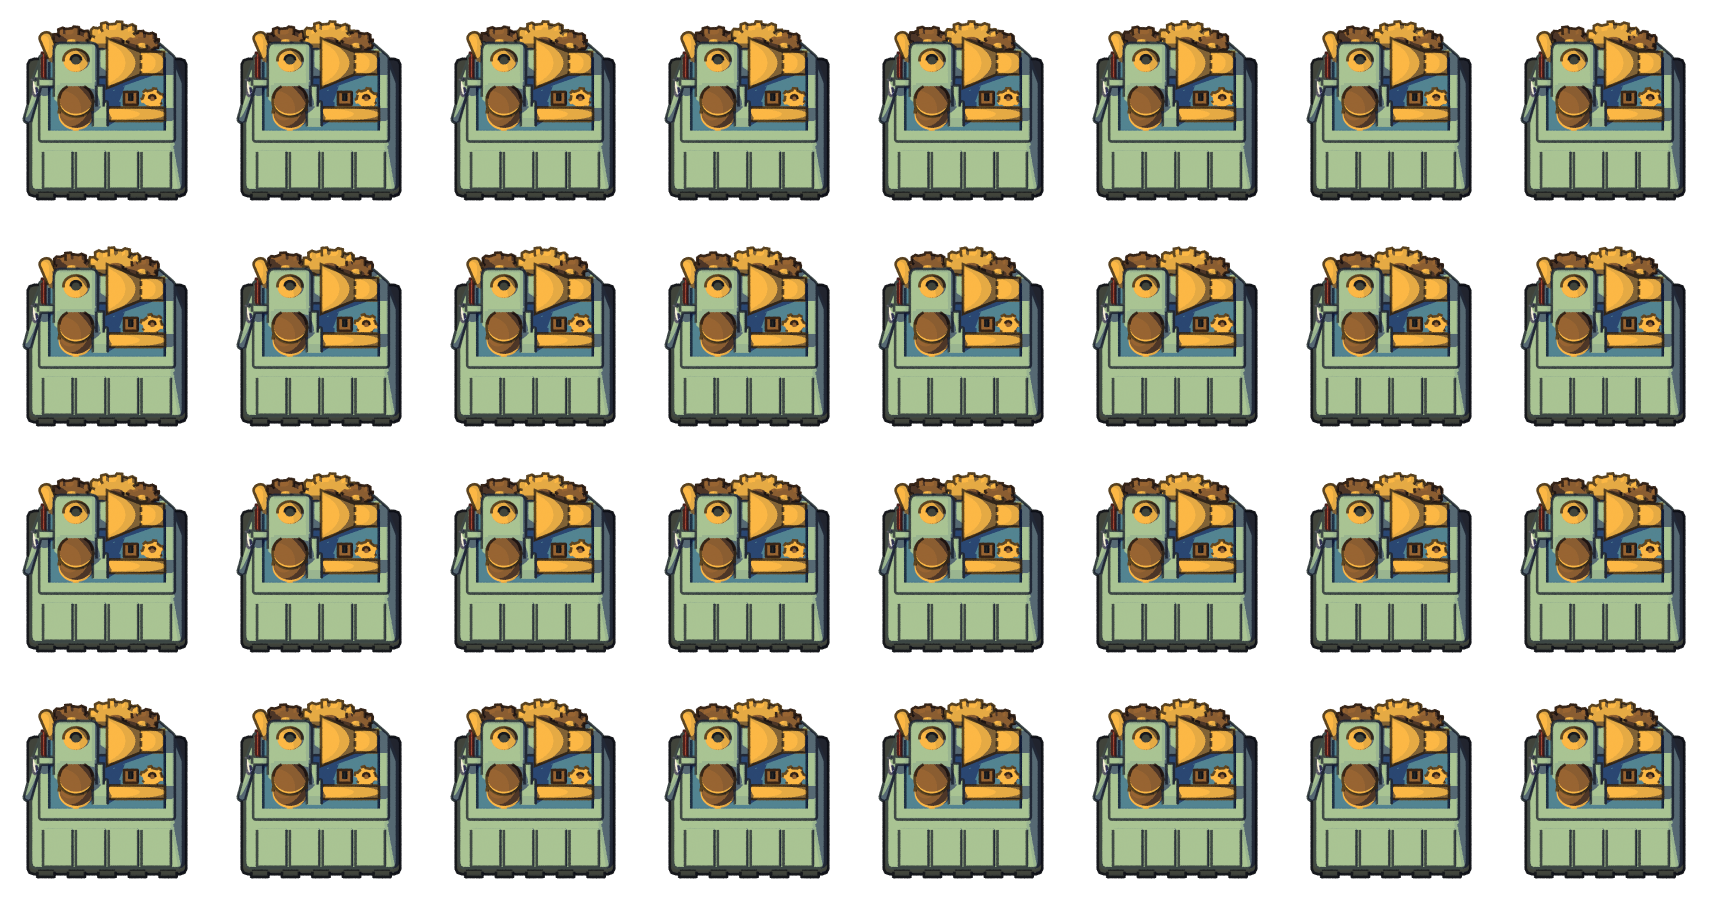
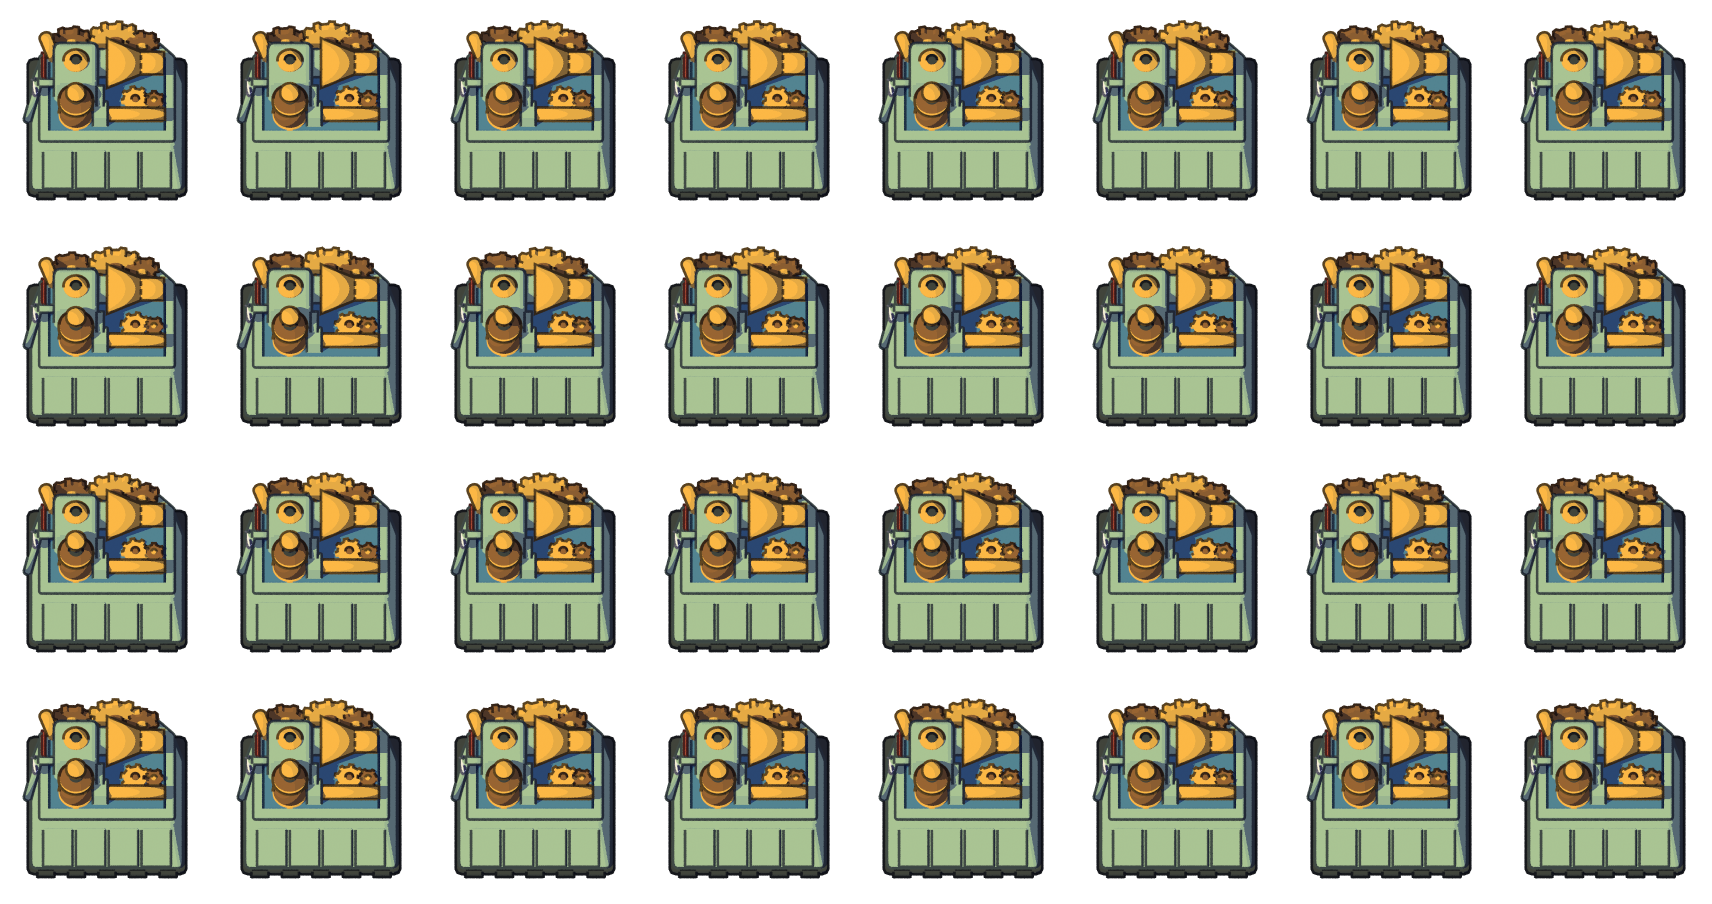
Cel-shading : assembleur 1 plus animé (piston du tambour, paire d'engrenages couchés)
Piston qui sort du tambour (une course par boucle), deux engrenages couchés à la place du petit engrenage et de la
plaque à fente, engrenages arrière un peu plus rapides. Peu de pièces mobiles ajoutées : les assembleurs 2 et 3
devront en avoir davantage pour se distinguer.

diff --git a/celshading/blender/assembler.py b/celshading/blender/assembler.py
@@ -27,6 +27,7 @@ SHADOW_CELL, SHADOW_OFFSET = (190, 165), (17, 6)   # cadre de l'ombre originale 
 SUN_SHEAR = (0.5, 0.03)          # ombre au sol : décalage par unité de hauteur (droite, vers le bas) ;
                                  # calé pour que l'ombre aille aussi loin à droite que l'originale
 CANVAS = 400
+PISTON_COURSE = 0.14             # course du piston du tambour (unités : 1 case = 1)
 
 # couleurs mesurées sur les images cibles (ton « éclairé »)
 VERT, BLEU = "#9ab590", "#4b7a8e"
@@ -130,12 +131,22 @@ def build(phase=0.0):
     lisse(o)
     lisse(cyl((0.8, 0.45, zt + 0.55), 0.2, 0.42, laiton, verts=40, rot=(0, 90, 0)))
     arrondi(box((-0.07, 0.45, zt + 0.55), (0.3, 0.38, 0.38), vert), 0.08)     # raccord moteur-entonnoir
-    # deux engrenages debout qui dépassent du bord arrière ; ils s'engrènent (tournent en sens inverse)
-    a = phase * 2 * 360 / 10
+    # deux engrenages debout qui dépassent du bord arrière ; ils s'engrènent (tournent en sens inverse) ;
+    # 3 dents par boucle : assez vite pour se voir, boucle sans à-coup
+    a = phase * 3 * 360 / 10
     engrenage_debout((0.15, 1.0, zt + 0.5), 0.38, 10, a, laiton, cuivre)
     engrenage_debout((-0.62, 1.02, zt + 0.42), 0.27, 7, -a * 10 / 7 + 12, cuivre, laiton)
-    # petit engrenage couché sur le plateau, à droite
-    gear((0.8, -0.05, zt + 0.12), 0.17, 0.1, 6, phase * 2 * 360 / 6, laiton, cuivre)
+    # paire d'engrenages couchés sur le plateau, à droite (2 dents par boucle)
+    b = phase * 2 * 360 / 8
+    gear((0.5, -0.08, zt + 0.15), 0.21, 0.1, 8, b, laiton, cuivre)
+    gear((0.83, -0.1, zt + 0.15), 0.15, 0.1, 6, -b * 8 / 6 + 15, cuivre, laiton)
+    # piston qui sort du tambour : une course aller-retour par boucle (assembleurs 2 et 3 : davantage de pièces
+    # mobiles, l'assembleur 1 reste le plus simple)
+    course = PISTON_COURSE * (0.5 - 0.5 * math.cos(2 * math.pi * phase))
+    z0 = zt + 0.7                                                    # haut du tambour
+    lisse(cyl((-0.55, -0.38, z0 + 0.03), 0.12, 0.06, sombre, verts=32))   # presse-étoupe
+    lisse(cyl((-0.55, -0.38, z0 + 0.1 + course / 2), 0.065, 0.2 + course, sombre, verts=24))   # tige
+    lisse(cyl((-0.55, -0.38, z0 + 0.24 + course), 0.17, 0.09, laiton, verts=40))              # tête
     # cheminée de laiton à gauche, un peu penchée
     lisse(cyl((-1.0, 0.8, zt + 0.45), 0.11, 0.8, laiton, verts=32, rot=(0, -12, 0)))
 
@@ -151,9 +162,7 @@ def build(phase=0.0):
     bpy.ops.mesh.primitive_torus_add(location=(-1.27, 0.05, zt + 0.4), rotation=(0, math.radians(90 - 11), 0),
                                      major_radius=0.12, minor_radius=0.04, major_segments=32, minor_segments=12)
     lisse(bpy.context.object).data.materials.append(blanc)
-    # plaque de cuivre à fente sur le plateau, bande rouge au coin arrière gauche
-    arrondi(box((0.42, -0.05, zt + 0.17), (0.24, 0.24, 0.04), cuivre), 0.02, 2)
-    box((0.42, -0.05, zt + 0.195), (0.05, 0.13, 0.02), sombre)
+    # bande rouge au coin arrière gauche
     arrondi(box((-1.12, 0.62, zt + 0.08), (0.06, 0.5, 0.22), rouge), 0.02, 2)
 
 def measure(path):
